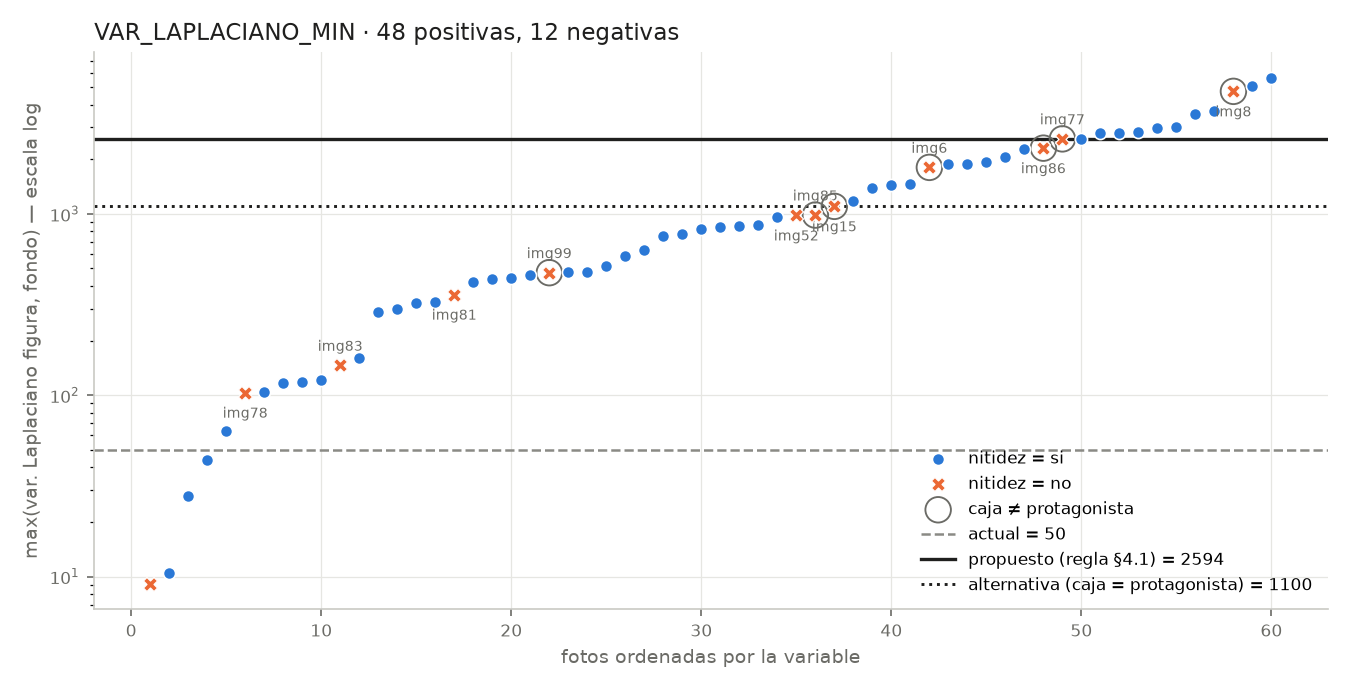
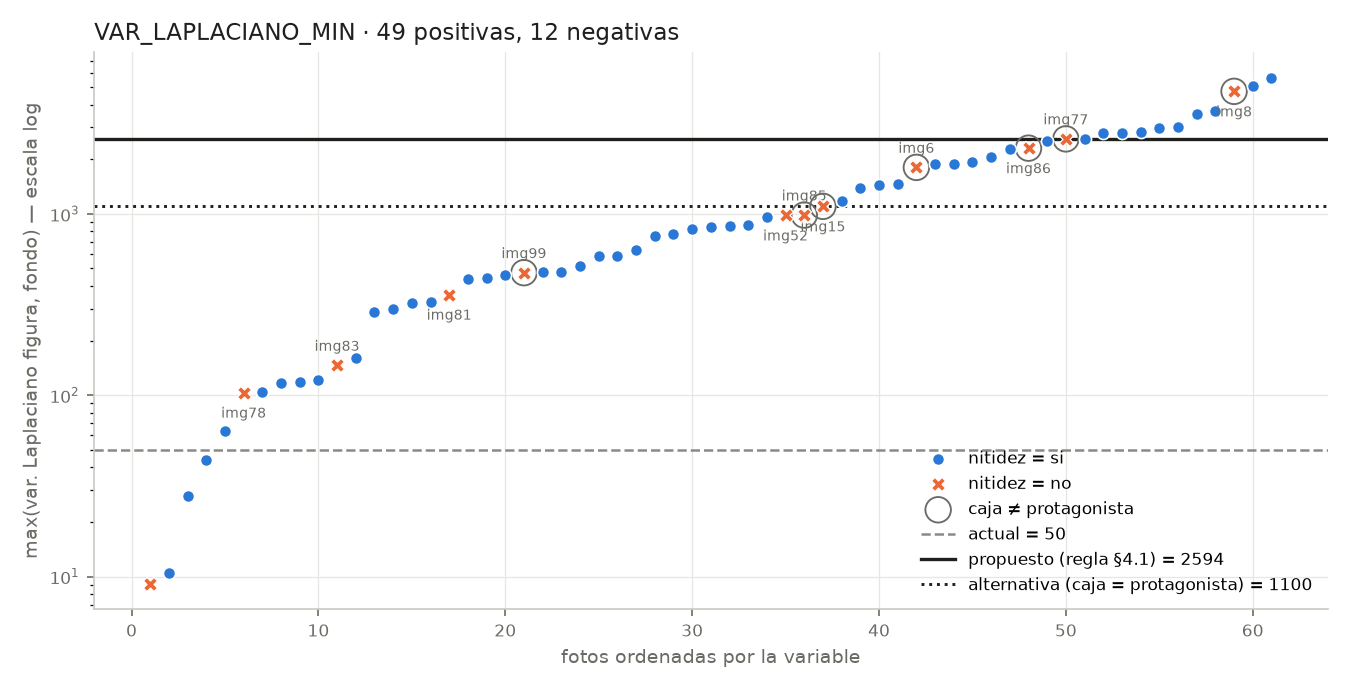
Calibración final: horizonte a 14° con los datos corregidos
- Con las fotos igualadas entre máquinas (410abbe), la regla del §4.1 da
  (0.1517; 14°) para el horizonte: desaparece la desviación provisional de 10°.
  Resto de umbrales sin cambios; escala de margen_patron P90 = 0.14.
- ANGULO_MAX_HORIZONTE = 14 y su comentario; esquema, prompt (suelo de
  valor_norm 0.07, escalas de longitud) y caso sintético del test (14.2°).
- propuesta_umbrales.csv, gráficas y escalas regenerados; plan §2.2, §4.2 y
  §8, y ESTADO.md (§3.3 y paso 2.12).

diff --git a/src/tfg_multiagente_fotografia/tools/lineas_direccion_tool.py b/src/tfg_multiagente_fotografia/tools/lineas_direccion_tool.py
@@ -128,27 +128,29 @@ MIN_LINEAS_FUGA = 2
 #
 # Un horizonte real cruza buena parte del encuadre. Si la línea casi horizontal más
 # larga de la escena no llega al 15% de la diagonal, lo que hay es un fragmento (el
-# borde de un objeto, un trozo de sombra) y no una línea de horizonte. Calibrado sobre
-# las 100 fotos de data/ con la definición AMPLIA del horizonte (natural o horizontal
-# estructural) y la regla del §4.1 de experimentos.md, con el ángulo fijo en 10°
-# (ver ANGULO_MAX_HORIZONTE). No hay banda vacía (regla 2): el corte queda justo por
-# encima de dos negativas (imagen95, 0.1509; imagen77, 0.1512) y en la positiva más
-# corta que conserva (imagen26, 0.1518). Abre 5 de 66 negativas y 17 de 32 positivas:
-# sensibilidad 53 %, PUNTO DÉBIL declarado (experimentos.md §8). Las clases se
-# solapan mucho en longitud; las 4 cifras son las que pide la banda, no precisión real.
+# borde de un objeto, un trozo de sombra) y no una línea de horizonte.
+# Y aunque sea larga, una línea muy inclinada no es un horizonte mal nivelado sino
+# estructura de la escena (una ladera, un patrón, una línea de fuga).
+#
+# Los dos cortes se calibran JUNTOS (regla 4 del §4.1 de experimentos.md) sobre las
+# 100 fotos de data/, con la definición AMPLIA del horizonte (natural o horizontal
+# estructural). No hay banda vacía (regla 2): de las parejas que abren como mucho el
+# 10 % de las negativas, (0.1517, 14°) es la de mayor sensibilidad. Abre 6 de 66
+# negativas y 19 de 32 positivas: sensibilidad 59 %, PUNTO DÉBIL declarado
+# (experimentos.md §8). La longitud queda justo por encima de dos negativas
+# (imagen95, 0.1509; imagen77, 0.1512) y en la positiva más corta que conserva
+# (imagen26, 0.1518): las clases se solapan mucho y las 4 cifras son las que pide la
+# banda, no precisión real. El ángulo queda en la positiva más inclinada que conserva
+# (imagen85, horizontal estructural a -13.94°), por debajo de imagen96 (12.93°, que
+# abre como negativa) y antes de la siguiente candidata (14.88°).
+# Antes valía 10°, fijado a ojo con los 4 candidatos más inclinados de un corpus de 40
+# fotos; con 14° el gate deja pasar horizontes bastante torcidos, que es justo lo que
+# la métrica tiene que poder señalar.
 LONGITUD_MIN_HORIZONTE = 0.1517
-# Y aunque sea larga, una línea muy inclinada no es un horizonte mal nivelado: es
-# estructura de la escena. Verificado a ojo sobre los 4 candidatos más inclinados
-# del corpus, que resultaron ser un patrón de muro (-12.26°), el borde de una colina
-# (-11.17°), una línea de fuga (-10.66°) y una ladera (+10.65°). Por debajo del corte
-# el corpus no pasa de 8.25°, así que 10 cae en banda vacía.
-# En la calibración sobre las 100 fotos (§4.1) NO se recalibra, y es una desviación
-# declarada de la regla: la pareja (longitud, ángulo) que da la regla tiene ángulo 0°,
-# porque 28 de 86 candidatos miden exactamente 0°. Con ese corte angulo_horizonte
-# valdría siempre 0 al abrir y la métrica no podría señalar un horizonte torcido.
-# NO se implementa estrechando el cono de la partición a 10°: se probó y rompe el
-# gate de convergencia sin arreglar esto (ver el comentario de UMBRAL_HORIZONTE_GRADOS).
-ANGULO_MAX_HORIZONTE = 10.0
+# NO se implementa estrechando el cono de la partición: se probó y rompe el gate de
+# convergencia (ver el comentario de UMBRAL_HORIZONTE_GRADOS). Tiene que ser menor que
+# UMBRAL_HORIZONTE_GRADOS (15°), que es el cono del que salen los candidatos.
+ANGULO_MAX_HORIZONTE = 14.0
 
 # --- Nota sobre las variantes descartadas ---
 # Este módulo NO lleva interruptores de ablación: hace una sola cosa y la hace

diff --git a/tests/test_lineas_direccion_tool.py b/tests/test_lineas_direccion_tool.py
@@ -225,7 +225,9 @@ def casos_analiticos():
         casos_horizonte = [
             ("nivelado", 5.0, 460, 1.0, "largo y poco inclinado: es un horizonte"),
             ("corto", 0.0, 60, 0.0, "fragmento: no llega a la longitud mínima"),
-            ("inclinado", 12.0, 460, 0.0, "largo pero es estructura de la escena"),
+            # Entre ANGULO_MAX_HORIZONTE (14°) y el cono de candidatos (15°): es candidata
+            # pero el gate la cierra por el ángulo. Antes era 12°, con el corte en 10°.
+            ("inclinado", 14.2, 460, 0.0, "largo pero es estructura de la escena"),
         ]
         for nombre, grados, semi, conf_esperada, motivo in casos_horizonte:
             img = lienzo()
@@ -243,13 +245,25 @@ def casos_analiticos():
                     f"confianza={a.confianza}, se esperaba {conf_esperada} ({motivo}). "
                     f"fuente: {a.fuente_confianza}"
                 )
-                # La longitud publicada debe corresponder al trazo dibujado. Hough
-                # puede recortar los extremos, así que se compara con holgura.
                 largo_esperado = 2 * semi / DIAGONAL
-                assert isclose(informe.longitud_horizonte, largo_esperado, rel_tol=0.15), (
-                    f"longitud={informe.longitud_horizonte:.4f} de diagonal, se dibujó "
-                    f"{largo_esperado:.4f}"
-                )
+                if nombre == "inclinado":
+                    # Cerca de 15° el trazo rasterizado sale escalonado y Hough lo parte en
+                    # trozos, así que la longitud no se compara con lo dibujado. Lo que importa
+                    # es que cierre por el ÁNGULO y no por ser un fragmento.
+                    assert informe.longitud_horizonte >= LONGITUD_MIN_HORIZONTE, (
+                        f"longitud={informe.longitud_horizonte:.4f}: cerraría por fragmento, "
+                        "no por inclinación"
+                    )
+                    assert "inclinado" in a.fuente_confianza, (
+                        f"debe cerrar por inclinación; fuente: {a.fuente_confianza}"
+                    )
+                else:
+                    # La longitud publicada debe corresponder al trazo dibujado. Hough
+                    # puede recortar los extremos, así que se compara con holgura.
+                    assert isclose(informe.longitud_horizonte, largo_esperado, rel_tol=0.15), (
+                        f"longitud={informe.longitud_horizonte:.4f} de diagonal, se dibujó "
+                        f"{largo_esperado:.4f}"
+                    )
                 print(
                     f"[OK] analitico/horizonte_{nombre}: ang={a.valor:+.2f}° (dibujado "
                     f"{grados:+.1f}) long={informe.longitud_horizonte:.4f} adh={a.valor_norm:.2f} "

diff --git a/experimentos/analisis_calibracion.py b/experimentos/analisis_calibracion.py
@@ -65,7 +65,9 @@ MAX_TASA_FP = 0.10          # se descartan los cortes que abren más de 1 de cad
 MIN_SENSIBILIDAD = 0.60     # por debajo, el corte se declara punto débil (pero no se cambia)
 MIN_CASOS = 3               # menos positivas o negativas que esto: «comprobado, no calibrado»
 
-# Valores con los que se midió (entorno_calibracion.json).
+# Valores de PARTIDA, anteriores a la calibración (los de la primera medición, commit 38845ad).
+# La propuesta se compara con ellos; las variables de decisión no dependen de los umbrales con
+# los que se mida, así que la regla da lo mismo con cualquier medición del mismo código.
 ACTUAL = {
     "RATIO_CROMATICO_MIN": 0.09,
     "LONGITUD_MIN_HORIZONTE": 0.13,

diff --git a/src/tfg_multiagente_fotografia/schemas/especialistas.py b/src/tfg_multiagente_fotografia/schemas/especialistas.py
@@ -132,7 +132,7 @@ class InformeLineasDireccion(BaseModel):
         description=(
             "Ángulo firmado del candidato a horizonte en grados: positivo si cae hacia la "
             "derecha; |valor| <= 15. valor_norm = 1 - |valor|/15, o None sin candidato. "
-            "Confianza 1 si hay candidato, longitud_horizonte >= 0.1517 y |valor| <= 10."
+            "Confianza 1 si hay candidato, longitud_horizonte >= 0.1517 y |valor| <= 14."
         ),
     )
     longitud_horizonte: float = Field(

diff --git a/experimentos/ESTADO.md b/experimentos/ESTADO.md
@@ -12,29 +12,25 @@ tomaron y qué toca después. El plan completo y las justificaciones están en
 
 ```
 Fase 1  Anotar el conjunto de prueba ........... HECHO
-Fase 2  Calibrar umbrales sobre data/ .......... HECHA (medición final e55d0dc, con el código de e3d4bfe)
-Fase 3  Instrumentos + congelación ............. SIGUIENTE  → aquí queda el sistema final
+Fase 2  Calibrar umbrales sobre data/ .......... CASI HECHA (valores finales aplicados, §3.3; falta la medida final, 2.12)
+Fase 3  Instrumentos + congelación ............. EN CURSO  → aquí queda el sistema final
 Fase 4  Ejecutar E1–E4 y escribir resultados ... pendiente
 ```
 
-**BLOQUEO (2026-11-07): 4 fotos de `data/` son ficheros distintos en el Mac y en Windows**
-(imagen48, 61, 63 y 81: otras dimensiones y otro MD5). La anotación de aplicabilidad se hizo sobre
-las versiones del Mac (las miniaturas de `plantilla_revision_humana.xlsx` lo confirman), que son
-además las descargas originales de Unsplash; la calibración midió las de Windows. Por tanto, esas
-4 filas cruzan medidas de una foto con la anotación de otra. También explica la diferencia de YOLO
-61/60 entre máquinas del §2.3 del plan (es imagen61, no el hardware). Estimación con las versiones
-del Mac: color, convergencia y nitidez no cambian; la regla del horizonte pasaría a dar (0.1517; 14°).
-**Decisión del usuario:** igualar las dos máquinas combinando versiones: imagen61 e imagen63 con la
-versión del Mac (la anotada) e imagen48 e imagen81 con la de Windows (ya medidas así). El
-manifiesto recoge esa combinación. La anotación de 48 y 81 parece seguir valiendo para la versión
-de Windows (el nombre del protagonista de imagen48, «chica con vestido», ya no la describe); el
-usuario lo confirma.
+**Siguiente acción (usuario, Windows): paso 2.12.** `git pull` y
+`uv run python experimentos/calibracion.py medir`: deja `medidas_calibracion.csv` con las
+decisiones del sistema final (cambia el horizonte, ahora a 14°; las variables no cambian). Commit y
+push solo de `experimentos/resultados/calibracion/`. Después, la fase 3 sigue con
+`config_experimentos.yaml`, `comun.py` y `ejecutar_lote.py`.
 
-**Siguiente acción (usuario, Windows): paso 2.10.** `git pull`; `calibracion.py medir --rehacer`;
-`calibracion.py plantilla --sobrescribir --conservar --revisar imagen63` (imagen61 sale en blanco
-sola, porque antes no era yolo); revisar las filas en blanco; `calibracion.py exportar`; commit y
-push solo de `experimentos/resultados/calibracion/` y `experimentos/anotaciones/segmentacion_calibracion.csv`.
-Después el asistente vuelve a aplicar la regla (2.11): el horizonte probablemente cambie.
+**Incidencia resuelta (2026-11-07): 4 fotos de `data/` eran ficheros distintos en el Mac y en
+Windows** (imagen48, 61, 63 y 81). La anotación de aplicabilidad se había hecho sobre las versiones
+del Mac; la calibración había medido las de Windows. También explicaba la diferencia de YOLO 61/60
+entre máquinas del §2.3 del plan (era imagen61, no el hardware). El usuario igualó las dos máquinas:
+imagen61 e imagen63 con la versión del Mac (la anotada) e imagen48 e imagen81 con la de Windows (su
+anotación sigue valiendo, salvo el nombre del protagonista de imagen48, «chica con vestido», que no
+interviene en ninguna métrica). Se volvió a medir, se revisó la segmentación de 61 y 63 y se volvió a
+aplicar la regla (§3.3).
 
 Hecho en la fase 3: `manifiesto_calibracion.py` y su CSV (88 fotos idénticas a su descarga de
 Unsplash, imagen54 derivada a B/N, 11 sin original localizado) y `calibracion.py --conjunto prueba`
@@ -95,7 +91,10 @@ estricto y `plantilla --conservar --revisar`).
   con `fuente = yolo` sin comprobar si la caja es el protagonista: en el 2.4 se cuentan como falsos
   positivos de composición y se usan en el barrido de `CONF_YOLO_THRESHOLD`.
 
-### 3.2 Qué salió del análisis de huecos (paso 2.4, 2026-11-07)
+### 3.2 Qué salió del análisis de huecos (paso 2.4, 2026-11-07) — SUPERADO por el §3.3
+
+Primera versión, con 4 filas que cruzaban medidas de una foto con la anotación de otra (ver §3.3).
+Se conserva como historia; los valores finales están en el §3.3.
 
 Script `analisis_calibracion.py` (sin GPU; lee los tres CSV). Salidas en `resultados/calibracion/`:
 `propuesta_umbrales.csv`, `barrido_yolo.csv`, `escalas_composicion.csv` y `huecos_*.png`.
@@ -132,6 +131,24 @@ Script `analisis_calibracion.py` (sin GPU; lee los tres CSV). Salidas en `result
   el P95); `d_equilibrio` (las 100) P10 = 0.019, P90 = 0.142 (0.03 / 0.12 actuales son P27 / P82). El
   plan no fija qué percentiles usar: lo decide el usuario.
 - **`BLOB_*`:** no se activan (ratio entre 0.010 y 0.405; ninguna foto sin sujeto).
+
+### 3.3 Calibración final (pasos 2.10–2.11, 2026-11-07)
+
+Medición de Windows `410abbe` (código `6febec1`), con las fotos igualadas entre máquinas y la
+segmentación de imagen61 e imagen63 revisada (61 fotos yolo: 60 `bien`, 1 `parcial`). Solo
+cambiaron esas 2 filas. Regla del §4.1 aplicada **sin ninguna desviación** (plan §4.2):
+
+| Umbral | Valor final | VP/FP/FN/VN | Tasa FP | Sensibilidad |
+|---|---|---|---|---|
+| `RATIO_CROMATICO_MIN` | 0.17 | 76/2/0/21 | 9 % | 100 % |
+| `LONGITUD_MIN_HORIZONTE`, `ANGULO_MAX_HORIZONTE` | 0.1517; **14°** | 19/6/13/60 | 9 % | 59 % (débil) |
+| `APERTURA_MIN_GRADOS` | 89 | 4/3/10/32 | 9 % | 29 % (débil) |
+| SAM | 0.90; 0.20–0.95 (regla 3) | 61/0/0/0 | — | 100 % |
+| `VAR_LAPLACIANO_MIN` | 2594 | 10/1/39/11 | 8 % | 20 % (débil) |
+| Escalas (P10/P90) | margen 0.01/**0.14**; `d_equilibrio` 0.02/0.14 | | | |
+
+El ángulo pasa de 10° (desviación provisional) a 14° (lo que da la regla con los datos correctos);
+el usuario lo aceptó el 2026-11-07. Aplicado en el código, prompts, esquema y test.
 
 ### Decisiones tomadas con el usuario
 
@@ -183,6 +200,9 @@ Script `analisis_calibracion.py` (sin GPU; lee los tres CSV). Salidas en `result
 | 2.8 | Asistente | ~~Comprobar las decisiones~~ HECHO: variables idénticas a la medición anterior; las 6 condiciones coinciden foto a foto con la propuesta (color 78, horizonte 22, convergencia 7, espacio 60, nitidez 11, composición 60) |
 
 | 2.9 | Usuario (Windows) | ~~Re-medir por el mensaje de cierre corregido~~ HECHO (`e55d0dc`): solo cambian los 44 textos de `motivo_convergencia` que cierran por apertura; variables y decisiones idénticas |
+| 2.10 | Usuario (Windows) | ~~Igualar las fotos, re-medir y revisar imagen61 e imagen63~~ HECHO (`410abbe`) |
+| 2.11 | Asistente | ~~Volver a aplicar la regla y aplicar los valores~~ HECHO (§3.3): el ángulo pasa a 14° y la escala de margen a 0.14 |
+| **2.12** | **Usuario (Windows)** | **SIGUIENTE.** `medir` para dejar el CSV con las decisiones finales; commit y push de `resultados/calibracion/` |
 
 **Ficheros de la primera campaña:** el commit `fa5afc3` subió además 67 ficheros de la primera
 campaña (notebooks, `comun.py`, `config_experimentos.yaml`, `ejecutar_lote.py`, `congelacion.json`,
@@ -195,10 +215,11 @@ un abanico menor no se distingue una perspectiva de paralelas o de diagonales qu
 azar. También se ajustaron el comentario de `APERTURA_MIN_GRADOS`, el docstring del gate, la
 descripción de `apertura_haz` en el esquema y el prompt de `agents.yaml`.
 
-**Valores aceptados (2.5, 2026-11-07):** `RATIO_CROMATICO_MIN` 0.17; horizonte con la alternativa A
-(`LONGITUD_MIN_HORIZONTE` 0.1517, `ANGULO_MAX_HORIZONTE` 10, desviación declarada); `APERTURA_MIN_GRADOS`
-89; `VAR_LAPLACIANO_MIN` 2594; SAM sin cambios; escalas de composición P10/P90 (margen 0.01/0.13,
-`d_equilibrio` 0.02/0.14); `CONF_YOLO_THRESHOLD` y `BLOB_*` sin cambios. Resumen en el §4.2 del plan.
+**Valores finales (2.11, 2026-11-07, sustituyen a los aceptados en el 2.5):** `RATIO_CROMATICO_MIN`
+0.17; `LONGITUD_MIN_HORIZONTE` 0.1517 y `ANGULO_MAX_HORIZONTE` 14 (regla literal, sin desviación);
+`APERTURA_MIN_GRADOS` 89; `VAR_LAPLACIANO_MIN` 2594; SAM sin cambios; escalas de composición P10/P90
+(margen 0.01/0.14, `d_equilibrio` 0.02/0.14); `CONF_YOLO_THRESHOLD` y `BLOB_*` sin cambios. Resumen en
+el §4.2 del plan.
 
 **Cómo hacer el 2.4:**
 

diff --git a/experimentos.md b/experimentos.md
@@ -55,7 +55,7 @@ ejecutando las herramientas, no leyendo los JSON. Las copias del LLM se evalúan
 | Condición | Métricas | Abre (`confianza = 1`) si… | Constantes |
 |---|---|---|---|
 | Cromática | `esquema_cromatico` | `ratio_pixeles_cromaticos ≥ RATIO_CROMATICO_MIN` | `RATIO_CROMATICO_MIN = 0.17` |
-| Horizonte | `angulo_horizonte` | Hay candidato, `longitud ≥ 0.1517` y `\|ángulo\| ≤ 10°` | `LONGITUD_MIN_HORIZONTE`, `ANGULO_MAX_HORIZONTE` |
+| Horizonte | `angulo_horizonte` | Hay candidato, `longitud ≥ 0.1517` y `\|ángulo\| ≤ 14°` | `LONGITUD_MIN_HORIZONTE`, `ANGULO_MAX_HORIZONTE` |
 | Convergencia | `score_convergencia` | `n ≥ 2`, `score > score_nulo(n)` y `apertura ≥ 89°` | `MIN_LINEAS_FUGA`, `modelo_nulo_fuga.json`, `APERTURA_MIN_GRADOS` |
 | Espacio | `ratio_espacio_negativo` | `fuente == "yolo"` **y** segmentación fiable | `FUENTE_CON_IDENTIDAD`, `SAM_SCORE_MIN`, `RELLENO_MIN`, `RELLENO_MAX` |
 | Nitidez | `ratio_nitidez` | Lo mismo que espacio **y** `max(var_fig, var_fondo) ≥ VAR_LAPLACIANO_MIN` (2594) | Las anteriores + `VAR_LAPLACIANO_MIN` |
@@ -213,18 +213,21 @@ valores de partida.
 | Umbral | Antes | Ahora | Regla | Tasa FP | Sensibilidad |
 |---|---|---|---|---|---|
 | `RATIO_CROMATICO_MIN` | 0.09 | **0.17** | 2 | 2/23 | 76/76 |
-| `LONGITUD_MIN_HORIZONTE` | 0.13 | **0.1517** | 2, con el ángulo fijo (desviación) | 5/66 | 17/32 (53 %) |
-| `ANGULO_MAX_HORIZONTE` | 10 | 10 | sin recalibrar (desviación) | — | — |
+| `LONGITUD_MIN_HORIZONTE` + `ANGULO_MAX_HORIZONTE` | 0.13; 10° | **0.1517; 14°** | 4 → 2 | 6/66 | 19/32 (59 %) |
 | `APERTURA_MIN_GRADOS` | 35 | **89** | 2 | 3/35 | 4/14 (29 %) |
-| `SAM_SCORE_MIN`, `RELLENO_MIN/MAX` | 0.90; 0.20–0.95 | sin cambios | 3 | — | 60/60 |
-| `VAR_LAPLACIANO_MIN` | 50 | **2594** | 2 | 1/12 | 10/48 (21 %) |
-| Escalas de composición | margen 0.01/0.15; `d_equilibrio` 0.03/0.12 | margen 0.01/0.13; `d_equilibrio` 0.02/0.14 | P10 / P90 | — | — |
+| `SAM_SCORE_MIN`, `RELLENO_MIN/MAX` | 0.90; 0.20–0.95 | sin cambios | 3 | — | 61/61 |
+| `VAR_LAPLACIANO_MIN` | 50 | **2594** | 2 | 1/12 | 10/49 (20 %) |
+| Escalas de composición | margen 0.01/0.15; `d_equilibrio` 0.03/0.12 | margen 0.01/0.14; `d_equilibrio` 0.02/0.14 | P10 / P90 | — | — |
 
-- **Única desviación de la regla: el horizonte.** La pareja que da la regla es (0.09; 0°), porque 28 de
-  86 candidatos miden exactamente 0°. Con un ángulo máximo de 0°, `angulo_horizonte` valdría siempre 0
-  al abrir y la métrica no podría señalar un horizonte torcido. Se deja el ángulo en su valor de diseño
-  (10°) y se calibra solo la longitud. El criterio para desviarse es que el corte deje la métrica sin
-  sentido, no que dé cifras malas.
+- **Ninguna desviación de la regla.** Todos los valores son los que da la regla del §4.1 sobre la medición
+  final (Windows, commit `410abbe`, con las fotos igualadas entre máquinas, §3).
+  *Historia:* con la medición anterior, en la que 4 filas cruzaban medidas de una foto con la anotación
+  de otra, la pareja del horizonte salía (0.09; 0°), un corte degenerado (con 0°, `angulo_horizonte`
+  valdría siempre 0 al abrir). Se había aplicado provisionalmente el ángulo de diseño (10°) como
+  desviación declarada; con los datos corregidos la regla da (0.1517; 14°) y la desviación desaparece.
+- **El horizonte a 14° queda cerca del cono de candidatos (15°).** La P2 del conjunto de prueba (girada
+  15° a propósito, §5.1) se diseñó con el corte en 10°: si su ángulo medido queda por debajo de 14°, el
+  gate abre y la métrica señala la inclinación. E2 lo juzga contra la anotación, no contra el diseño.
 - **Convergencia y nitidez se aplican tal cual** aunque su sensibilidad quede por debajo del 60 %: son
   puntos débiles declarados (§8). En la convergencia, la apertura separa mal las clases (AUC 0.64): una
   perspectiva cuyas líneas salen de un solo lado del punto de fuga da un abanico estrecho (imagen4,
@@ -647,14 +650,15 @@ experimentos/
   el resultado global y sus cifras se informan, pero es la condición más débil (48 % de precisión de
   apertura en la primera campaña) y su evidencia es escasa.
 - **La segmentación fiable no se pudo calibrar.** En el conjunto de calibración no hubo ninguna
-  segmentación `mal` (59 `bien`, 1 `parcial`), así que `SAM_SCORE_MIN` y `RELLENO_MIN/MAX` quedan como
+  segmentación `mal` (60 `bien`, 1 `parcial`), así que `SAM_SCORE_MIN` y `RELLENO_MIN/MAX` quedan como
   «comprobados, no calibrados» (regla 3 del §4.1). Su eficacia solo se observa en el conjunto de prueba.
-- **Tres umbrales con sensibilidad baja en calibración (§4.2).** Horizonte 53 %, convergencia 29 % y
-  nitidez 21 %: sus variables no separan bien las fotos en las que la regla aplica de las que no, y la
+- **Tres umbrales con sensibilidad baja en calibración (§4.2).** Horizonte 59 %, convergencia 29 % y
+  nitidez 20 %: sus variables no separan bien las fotos en las que la regla aplica de las que no, y la
   regla del §4.1 prima los falsos negativos. Esas condiciones callan a menudo cuando podrían hablar.
-- **Desviación declarada en el horizonte (§4.2).** El ángulo máximo se dejó en 10° porque el corte que
-  daba la regla (0°) anulaba la métrica.
-- **La caja de YOLO no siempre es el protagonista.** 11 de las 60 fotos `yolo` de calibración; ningún
+- **Ficheros distintos entre máquinas (§3).** 4 fotos de calibración eran ficheros distintos en el Mac y
+  en Windows; se detectó al hacer el manifiesto y se corrigió antes de congelar. Desde entonces
+  `calibracion.py` comprueba el MD5 contra el manifiesto antes de medir.
+- **La caja de YOLO no siempre es el protagonista.** 11 de las 61 fotos `yolo` de calibración; ningún
   umbral de los calibrados lo corrige, y abre composición (y a veces espacio y nitidez) en esas fotos.
 - **Selección intencional.** Los dos conjuntos de Unsplash contienen ejemplos claros de cada categoría y
   no representan las fotos de un usuario cualquiera.
